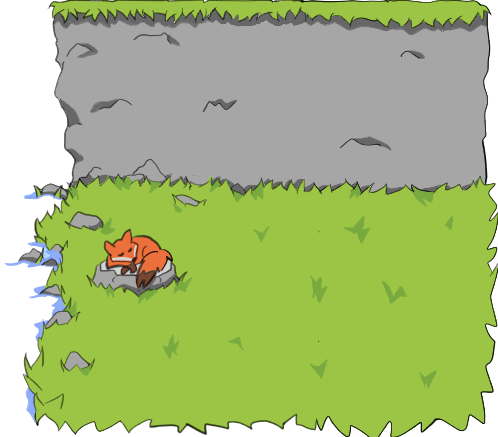
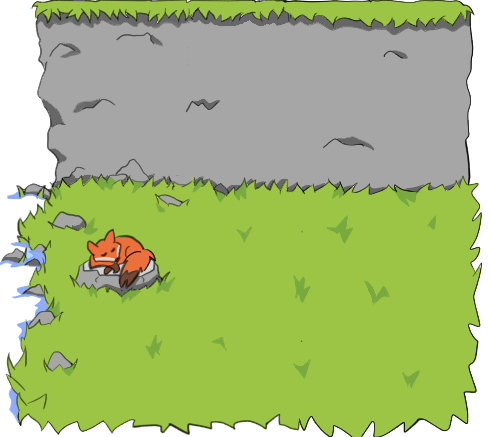
bugfix: Lemminge überspringen keine Lücke mehr

diff --git a/src/BonusLevel.js b/src/BonusLevel.js
@@ -151,7 +151,7 @@ export class BonusLevel extends Scene {
         }
 
         this.add.image(-11, yPos, 'cliffL').setOrigin(0, 0);
-        this.add.image(this.pillars[this.pillars.length - 1].x - 8, yPos, 'cliffR').setOrigin(0, 0);
+        this.add.image(this.pillars[this.pillars.length - 1].x + 8, yPos, 'cliffR').setOrigin(0, 0);
 
         // console.log(this.getBridgeLengths().length);
         // console.log(this.set.length);

diff --git a/src/Preview.js b/src/Preview.js
@@ -115,7 +115,7 @@ export class Preview extends Scene {
         }
 
         this.add.image(-11, this.bridgeConstructYPos, 'cliffL').setOrigin(0, 0);
-        this.add.image(this.pillars[this.pillars.length - 1].x - 8, this.bridgeConstructYPos, 'cliffR').setOrigin(0, 0);
+        this.add.image(this.pillars[this.pillars.length - 1].x + 8, this.bridgeConstructYPos, 'cliffR').setOrigin(0, 0);
 
     }
 }
